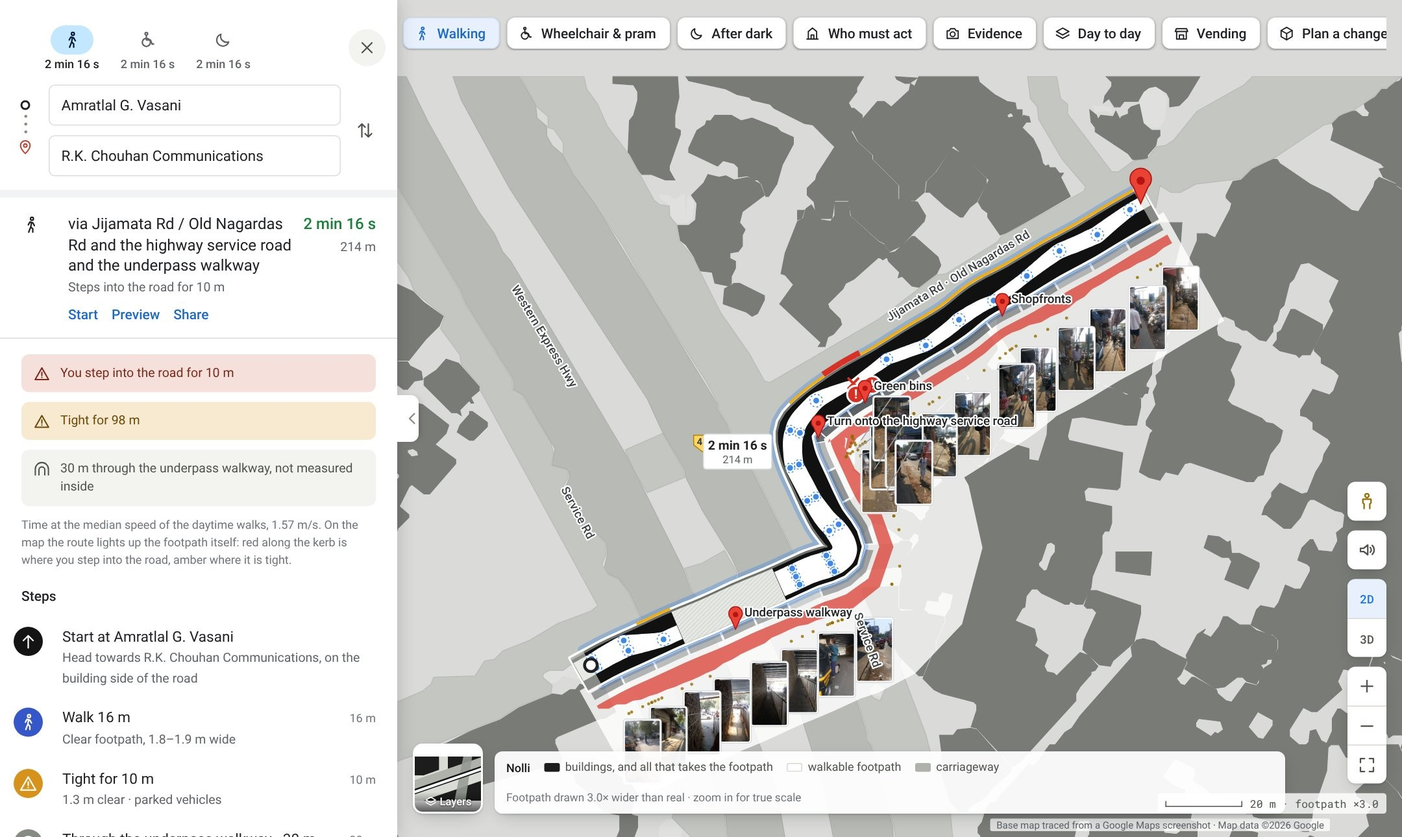
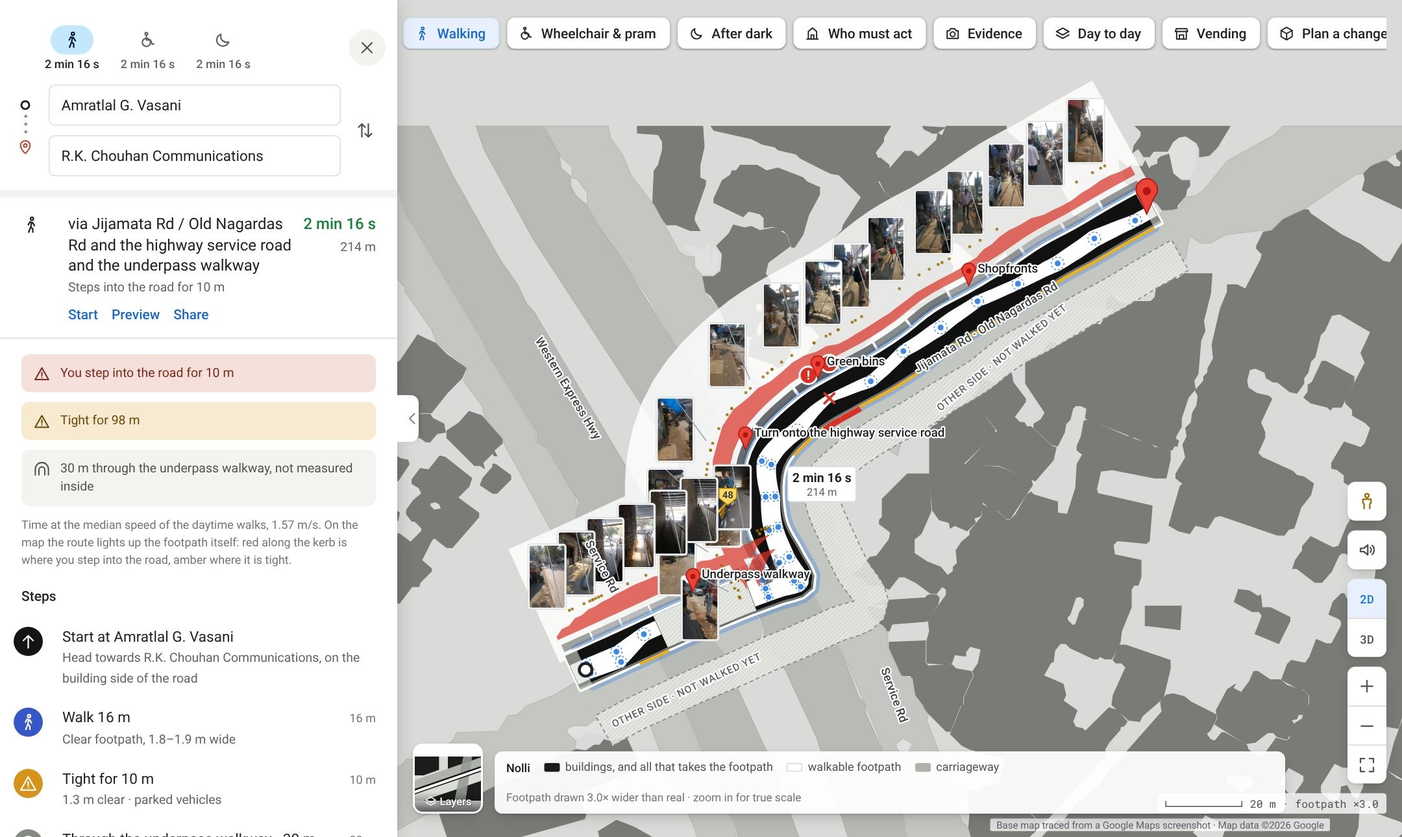
Pedestrian map: footpath on the walked (left-hand) side; other side marked not walked
The walked footpath now follows the north-west side of Jijamata Rd,
the west side of the service road and the north side of the road under
the highway, traced across the road using road widths measured on the
base map. The opposite footpath is drawn as a hatched band labelled
'Other side · not walked yet'. Report figures re-shot.

Claude-Session: https://claude.ai/code/session_015shB5T55dWDQ8sygg24Ctu

diff --git a/street-intelligence/pedmap/map.html b/street-intelligence/pedmap/map.html
@@ -540,23 +540,31 @@ function tx(s, x, y, at = {}, p) { const t = el('text', { x, y, ...at }, p); t.t
 const CTX = {"W":1228,"H":825,"lane":"M1092,768L1093,778L1095,782L1097,782L1101,776L1097,774L1097,768ZM1133,748L1130,752L1122,752L1119,767L1126,771L1126,780L1132,778L1132,783L1136,783L1136,778L1141,779L1143,777L1143,770L1151,766L1151,761L1148,758L1142,757L1138,748ZM716,603L709,618L710,632L715,637L720,638L726,635L729,629L729,614L722,603ZM463,539L458,544L457,553L462,559L468,559L473,554L474,547L468,539ZM1123,469L1111,477L1109,484L1117,488L1116,492L1121,497L1129,499L1130,494L1135,495L1136,486L1143,480L1143,477L1140,474L1135,474L1131,469ZM610,443L611,448L618,450L620,443L616,440ZM403,430L400,427L392,427L387,431L377,431L373,433L373,435L379,440L383,440L388,435L400,438L398,433L403,432ZM1041,316L1033,318L1028,324L1019,323L1012,328L1011,331L1020,335L1026,346L1029,346L1030,343L1031,346L1034,346L1039,341L1039,333L1036,329L1043,323ZM177,97L173,101L173,105L176,109L175,113L178,118L178,124L181,129L188,130L195,124L194,117L200,114L202,108L196,98L184,100ZM458,86L458,88L465,93L467,104L470,106L478,106L482,103L483,91L480,87L478,87L477,102L476,85L469,89L464,86ZM772,21L774,26L782,25L786,27L786,22ZM815,7L807,12L806,21L809,33L814,37L821,37L825,30L826,15L820,8Z","bgrey":"M84,819L85,824L92,824L92,819ZM36,819L36,824L51,824L51,819ZM1020,817L1020,824L1030,824L1029,816ZM200,824L229,824L219,819L210,812L207,813L207,815ZM279,795L276,794L240,808L239,813L242,822L244,824L268,824L286,818ZM1074,792L1075,812L1067,814L1066,824L1095,824L1096,816L1091,816L1087,813L1089,805L1088,794ZM136,789L136,796L139,797L145,803L148,804L152,801L153,797L151,794L144,789ZM1112,768L1103,769L1102,776L1104,778L1097,786L1098,804L1115,801L1115,789L1108,778L1112,772ZM889,763L888,767L891,773L889,778L898,798L902,799L909,797L913,803L920,801L916,780L907,781L904,775L899,774L898,771L900,765L898,761ZM874,824L874,819L867,798L855,800L852,802L848,795L842,794L840,786L824,789L820,788L819,783L821,781L833,779L835,777L844,776L854,772L859,772L859,760L844,762L822,769L819,764L795,768L791,770L791,774L787,778L784,778L782,774L759,779L762,800L767,801L769,813L776,813L780,819L781,824L786,824L786,822L790,819L792,819L795,824L797,824L799,821L799,816L809,812L813,814L814,818L833,814L835,816L836,824ZM996,758L997,772L999,777L998,780L999,782L1007,782L1010,779L1010,776L1008,774L1009,768L1007,762L1003,758ZM973,760L973,771L975,781L979,786L976,790L965,791L966,800L964,803L966,808L979,807L981,809L979,813L980,824L991,824L991,814L1038,810L1039,803L1051,803L1052,805L1065,804L1063,785L1060,781L1063,758L1055,764L1050,764L1050,768L1053,772L1052,778L1046,778L1044,776L1044,761L1041,758L1017,759L1015,762L1015,771L1018,773L1024,770L1030,777L1038,777L1040,780L1038,790L1028,791L1028,781L1019,781L1017,784L1018,791L1016,793L993,796L990,795L990,790L987,786L988,781L983,758L977,758ZM406,749L403,758L392,759L392,768L399,769L399,776L387,824L434,824L450,755L421,750ZM1069,754L1069,756L1071,757L1084,757L1087,754L1087,748L1077,748ZM1165,716L1165,729L1187,730L1187,717L1169,715ZM1112,708L1109,709L1107,720L1099,718L1092,719L1090,738L1099,740L1106,739L1112,743L1110,747L1112,751L1111,758L1113,760L1119,761L1122,759L1121,748L1117,744L1119,734L1120,710ZM1079,708L1072,710L1070,720L1071,723L1069,725L1065,725L1065,733L1067,739L1075,738L1076,734L1074,723L1081,723L1082,721L1082,710ZM1128,707L1125,735L1127,737L1132,738L1136,737L1138,740L1150,741L1152,712L1140,711L1137,707ZM914,703L908,704L898,710L902,722L918,714L917,707ZM973,698L971,700L971,703L973,708L974,720L963,722L968,749L977,747L985,749L990,748L993,742L999,743L1013,741L1010,714L1019,711L1018,703L1016,700L1005,702L1002,705L988,706L984,696ZM1153,679L1150,684L1149,692L1167,695L1170,691L1169,683ZM286,675L286,685L284,694L274,696L273,724L283,727L282,744L294,745L296,738L299,677L293,675ZM771,669L758,668L754,691L748,691L732,687L726,684L718,683L713,691L712,698L742,721L745,721L754,696L757,693L765,693L768,691L769,680L772,674ZM1105,664L1103,670L1103,679L1102,682L1099,683L1098,687L1098,700L1114,701L1116,686L1119,684L1121,666ZM206,661L204,663L195,709L195,716L215,717L219,715L250,719L252,704L243,702L244,691L240,689L242,669L230,669L222,667L219,661ZM226,687L227,695L223,702L222,710L219,714L216,711L219,688ZM1189,657L1187,660L1186,673L1203,674L1205,670L1206,660ZM1010,647L1013,668L1009,671L1005,671L1005,676L1009,688L1038,688L1040,692L1038,713L1028,714L1031,738L1039,739L1037,723L1037,714L1039,713L1043,719L1045,738L1043,740L1043,755L1050,751L1060,751L1058,739L1054,739L1052,737L1053,728L1051,715L1048,711L1047,699L1050,698L1059,700L1071,700L1072,696L1082,696L1084,690L1084,678L1086,677L1086,663L1054,663L1052,645ZM1054,668L1057,670L1056,689L1051,687L1053,681L1052,670ZM240,635L240,663L253,664L255,666L279,666L281,634ZM763,625L761,627L761,633L763,635L759,643L757,660L777,662L780,646L779,633L767,635L766,625ZM744,616L742,614L736,614L731,616L731,630L728,636L721,640L716,639L710,633L710,625L703,630L694,633L680,634L683,641L684,653L694,654L696,657L704,659L706,663L719,665L722,667L723,670L734,672L737,660L727,658L726,652L728,649L731,648L733,639L732,632L737,630L744,630ZM437,601L435,624L454,628L463,628L465,605ZM1172,587L1172,591L1169,595L1169,603L1193,607L1196,606L1193,591L1185,593L1182,591L1182,587ZM1082,563L1072,564L1073,578L1083,577ZM1150,562L1112,564L1113,578L1109,582L1108,596L1100,597L1099,595L1078,594L1079,612L1058,615L1056,619L1054,628L1056,644L1086,645L1086,630L1084,628L1083,614L1105,614L1107,618L1105,622L1106,626L1104,630L1104,635L1107,637L1144,642L1146,639L1157,639L1158,640L1155,650L1156,657L1154,667L1161,667L1162,657L1166,656L1167,654L1167,643L1159,640L1160,623L1165,605L1156,600L1148,601L1142,598L1143,584L1150,582ZM1158,519L1159,535L1178,535L1178,521L1171,518ZM132,507L127,509L95,532L96,537L105,549L119,541L121,538L143,523L143,519ZM396,507L397,512L409,522L410,526L418,534L429,536L429,547L427,552L439,553L442,545L442,537L438,536L437,534L443,516L422,504L409,499ZM11,495L3,502L0,502L0,573L7,579L10,584L13,585L13,587L18,593L21,594L40,580L40,570L37,565L41,561L45,563L50,562L59,570L65,568L67,561L61,553L71,543L71,541L47,513L45,513L37,519L29,527L31,533L28,536L25,536L20,530L20,526L23,525L28,519L26,515L26,509L13,495ZM223,453L222,457L219,460L219,463L228,469L234,468L235,459ZM416,439L404,442L400,441L397,445L393,445L387,449L380,448L356,458L342,467L323,474L303,484L297,485L293,489L284,491L282,495L287,510L291,517L292,523L300,522L386,498L387,495L382,484L382,481L384,479L415,466L418,466L426,461ZM1095,426L1093,426L1077,450L1078,454L1085,456L1087,459L1093,460L1108,435L1105,431ZM79,390L66,404L66,408L68,408L84,424L81,431L92,441L103,448L120,428L121,424L99,405L97,405L85,393ZM173,389L169,389L154,408L160,414L163,414L165,411L167,411L178,396L178,394ZM1101,408L1085,398L1082,399L1082,392L1075,389L1071,384L1062,384L1060,391L1055,398L1051,398L1049,396L1045,397L1043,402L1045,407L1039,414L1030,434L1034,439L1046,445L1057,422L1057,417L1059,413L1064,413L1068,415L1075,408L1077,413L1094,423L1101,412ZM789,345L789,359L814,362L815,345ZM856,333L853,342L866,349L871,349L873,352L868,365L885,372L893,356L893,353L879,346L873,346L872,337L870,338L864,334ZM1217,327L1214,327L1209,322L1202,321L1199,331L1196,335L1182,331L1176,348L1175,356L1183,360L1187,360L1192,349L1199,350L1206,354L1210,354L1213,342L1217,334ZM0,249L0,298L13,298L16,252L15,250ZM320,243L320,245L313,253L311,258L320,264L323,264L333,254L333,251L322,243ZM748,211L745,212L743,223L740,230L740,233L744,236L740,243L739,260L733,279L726,278L726,270L709,265L707,263L704,265L696,279L692,283L689,283L684,278L672,272L672,280L663,291L663,294L657,299L653,305L654,314L651,317L651,320L647,323L642,317L632,313L623,307L623,297L628,293L635,277L634,250L618,250L600,268L600,281L598,283L598,286L606,292L605,297L596,309L591,310L585,318L578,322L586,326L590,330L597,330L605,333L612,324L616,324L624,328L635,336L639,336L643,331L646,333L646,337L633,355L634,363L632,370L632,386L647,387L650,386L652,380L660,381L660,378L663,374L671,376L669,386L665,392L666,395L659,411L659,416L657,417L649,437L657,445L663,448L686,454L688,456L688,460L684,472L688,473L714,501L719,498L760,453L760,448L763,443L771,434L771,432L774,431L776,428L769,420L763,418L746,435L744,433L739,432L737,428L740,420L730,413L732,409L730,401L716,395L721,386L723,385L724,377L728,372L732,372L735,375L752,383L755,383L756,381L760,383L765,383L771,371L772,363L779,346L779,333L781,330L784,330L786,324L786,312L767,308L766,301L769,298L790,300L792,298L794,273L755,264L754,261L757,248L765,247L796,253L804,253L807,240L807,234L800,231L796,231L792,228L781,225L779,223L776,223ZM742,338L745,340L745,345L742,349L739,358L737,359L733,355L733,353L735,351L739,339ZM247,210L244,210L234,224L228,222L223,218L220,218L216,228L221,231L227,237L228,240L222,249L217,254L214,254L207,266L204,266L199,260L195,259L183,274L183,277L170,289L170,291L164,299L164,302L167,307L159,316L158,322L147,340L149,344L173,363L179,359L188,347L192,349L196,353L184,369L184,371L199,381L205,379L210,383L215,382L219,375L232,360L229,355L221,349L218,351L212,361L208,361L205,358L212,344L213,339L218,339L228,330L246,342L253,343L262,331L267,331L268,328L276,320L276,318L269,312L276,298L278,296L287,303L291,303L310,281L310,278L295,267L303,259L305,253L286,238L282,237L274,247L268,246L262,254L262,257L267,260L269,264L263,269L258,276L258,279L262,284L264,284L269,289L269,291L261,299L253,293L250,293L249,296L236,310L232,309L224,302L222,302L211,317L208,316L200,308L197,308L189,318L190,321L198,328L196,333L192,337L184,333L174,324L175,320L177,319L177,316L183,311L183,309L189,303L189,300L186,297L186,293L190,283L200,282L222,299L228,296L231,286L239,286L241,289L246,290L252,283L253,278L229,260L234,252L237,250L242,253L252,255L260,243L259,240L254,239L245,234L253,220L256,218ZM275,271L279,270L282,272L283,275L278,276L275,273ZM259,218L259,220L263,224L268,224L272,227L275,227L280,221L286,220L285,214L277,210L275,207L268,207ZM670,181L670,189L665,194L665,197L683,219L660,243L684,244L710,255L723,240L725,231L722,230L707,216L704,216L702,213L699,213L695,209L703,198L703,196L694,184L693,178L688,179L681,185ZM505,154L504,165L521,171L525,174L529,172L534,162L534,159L516,150L512,150ZM26,142L0,147L0,201L4,205L16,204L16,190L39,184ZM147,128L147,137L149,138L150,144L148,159L148,180L150,182L224,187L226,127L202,128L196,126L193,130L189,132L184,132L180,129L179,126L173,129L167,129L165,127L164,121L161,118L157,122L158,124L156,127ZM563,97L558,97L558,104L561,103ZM670,52L659,69L652,76L651,84L654,84L665,94L676,102L678,102L683,95L688,91L695,78L695,74L677,56ZM492,32L491,35L485,39L479,52L479,55L500,65L504,61L512,63L515,66L515,73L522,72L526,75L529,75L532,78L535,87L537,87L543,78L547,64L555,49L555,44L546,40L543,37L525,30L517,32L510,28L498,28L495,32ZM1227,0L1175,0L1173,10L1160,10L1156,8L1148,8L1145,5L1145,0L1122,0L1119,5L1111,6L1108,17L1105,21L1101,21L1089,16L1087,11L1081,11L1075,20L1067,17L1062,25L1055,24L1040,46L1030,66L1030,71L1021,84L1018,86L1014,86L1011,89L1008,89L993,80L992,78L980,73L977,76L976,80L965,98L960,97L944,85L930,78L908,63L906,60L903,60L888,67L880,75L874,76L869,86L869,88L873,92L872,96L861,117L855,114L848,114L848,119L843,131L837,157L838,167L834,174L834,177L831,180L831,183L825,190L827,194L826,201L823,206L822,213L818,217L819,223L816,229L818,238L811,250L811,253L816,257L814,259L806,287L813,291L821,293L825,287L834,289L839,281L843,280L884,294L889,294L892,290L896,289L901,274L908,265L910,257L903,252L898,251L895,248L873,238L870,235L875,224L875,220L872,213L880,196L878,194L869,192L863,188L862,183L864,175L868,174L875,177L876,181L881,184L884,184L893,191L898,192L903,185L903,181L906,177L908,169L911,166L915,150L918,147L923,136L929,135L951,148L944,163L947,170L933,197L933,199L938,204L938,208L947,213L951,217L947,228L944,231L932,227L923,242L923,246L927,247L932,251L932,256L943,263L945,266L940,274L939,279L934,287L928,302L924,303L908,295L902,302L902,305L897,312L895,318L898,318L911,328L916,328L923,320L928,309L930,307L933,307L948,315L953,316L955,318L954,327L949,331L950,337L946,345L936,344L932,336L930,336L924,342L921,351L928,354L930,356L930,359L923,372L919,372L912,369L907,382L904,386L894,384L891,387L887,398L900,405L903,405L907,409L907,415L903,421L902,426L897,429L893,437L893,440L891,442L883,440L873,454L869,453L863,448L862,445L846,436L844,436L839,442L836,441L833,437L836,434L840,426L840,423L822,414L817,410L809,408L804,409L800,414L801,421L763,464L757,473L752,476L745,485L741,485L730,500L726,499L705,522L702,527L698,527L695,531L692,541L689,545L689,549L691,551L689,558L690,561L688,566L688,575L713,582L716,584L717,587L753,595L758,594L759,578L761,571L769,573L838,579L846,581L849,583L848,595L845,602L837,604L834,601L821,601L815,599L811,602L810,608L813,613L811,617L811,623L818,624L824,632L838,632L845,640L873,649L877,649L885,654L894,651L894,648L902,643L902,630L907,616L914,611L924,600L928,598L945,620L949,634L943,634L924,642L928,655L935,656L933,660L907,674L901,675L889,680L887,676L884,674L866,670L860,664L850,664L847,677L847,687L861,689L864,692L865,710L886,709L889,707L890,699L898,698L913,693L922,694L928,707L940,704L937,689L948,686L948,679L945,675L943,664L939,655L950,650L953,647L960,647L966,645L971,641L966,628L966,624L973,617L978,609L984,607L993,600L993,595L987,582L964,554L962,554L958,558L958,560L953,564L941,555L930,551L927,553L926,560L924,562L908,558L907,563L904,567L904,573L899,578L895,578L888,574L892,549L884,547L880,544L876,544L874,546L869,559L865,564L850,564L842,562L842,557L848,553L848,541L843,540L845,527L839,523L839,518L830,514L823,508L832,495L846,502L847,505L845,511L852,515L858,521L884,535L888,535L889,537L925,548L929,548L929,542L931,540L932,533L942,504L943,487L945,485L951,485L956,494L973,500L978,505L980,505L994,519L1000,528L1006,526L1016,519L1019,519L1026,531L1032,537L1043,561L1047,561L1062,554L1074,553L1076,550L1084,550L1085,552L1091,553L1092,555L1088,561L1090,579L1105,579L1105,564L1102,556L1104,552L1112,552L1112,549L1114,547L1125,547L1127,555L1144,554L1144,534L1141,532L1133,534L1125,533L1125,501L1117,494L1110,498L1101,497L1099,495L1090,496L1083,513L1077,520L1074,521L1070,516L1053,508L1046,508L1043,500L1039,495L1036,496L1032,501L1028,501L1021,497L1010,505L1007,505L999,496L994,485L981,485L980,483L982,476L979,473L970,469L962,463L956,462L952,459L950,459L946,466L946,475L942,484L938,482L934,474L930,475L929,483L927,485L922,485L915,479L915,474L925,458L931,461L935,461L953,445L950,439L954,430L971,433L975,419L978,415L1005,427L1016,404L1016,401L1018,399L1022,399L1027,391L1029,384L1006,371L1006,365L1010,356L1013,342L1017,339L1018,336L1012,333L1003,332L1002,326L1008,323L1006,315L1011,306L1015,294L1022,294L1027,287L1040,292L1045,299L1056,302L1061,305L1075,308L1077,310L1075,315L1061,312L1058,320L1059,325L1069,327L1072,329L1072,337L1062,337L1059,348L1056,351L1047,350L1039,346L1033,349L1026,348L1020,363L1021,367L1049,375L1055,359L1059,359L1062,362L1069,363L1072,365L1082,365L1084,363L1084,358L1089,343L1107,346L1117,350L1127,351L1128,356L1125,366L1125,380L1127,380L1129,384L1129,392L1132,396L1131,402L1135,405L1138,426L1142,431L1145,431L1157,440L1160,440L1164,444L1169,445L1197,462L1203,460L1208,447L1211,444L1211,438L1200,431L1180,421L1177,421L1170,416L1169,413L1175,406L1177,401L1175,398L1162,392L1159,389L1158,384L1168,372L1168,368L1149,357L1146,352L1151,345L1152,339L1157,328L1147,323L1145,321L1145,318L1149,310L1150,298L1152,295L1151,282L1157,275L1157,267L1155,263L1159,260L1176,260L1182,262L1192,260L1195,255L1194,249L1198,237L1199,226L1201,223L1203,210L1210,209L1227,202L1227,172L1224,170L1216,168L1213,172L1212,177L1209,180L1189,171L1186,171L1184,169L1172,166L1168,163L1164,163L1161,159L1174,152L1180,156L1188,158L1193,161L1197,161L1212,137L1212,133L1187,123L1170,114L1164,113L1144,164L1145,168L1151,169L1152,172L1140,195L1136,195L1117,187L1114,187L1112,185L1116,171L1114,167L1107,163L1102,156L1103,152L1097,146L1077,132L1075,132L1071,137L1064,135L1058,141L1055,141L1047,137L1042,142L1040,146L1041,154L1055,162L1060,162L1065,169L1080,179L1087,189L1092,193L1104,198L1105,201L1103,206L1110,212L1113,212L1122,220L1118,224L1117,228L1104,249L1104,257L1102,262L1097,266L1082,263L1073,256L1052,246L1045,239L1023,224L1014,224L1001,218L1000,211L996,207L994,186L996,184L996,181L1001,176L1004,169L1007,166L1007,164L1012,164L1016,160L1017,157L1027,146L1043,120L1048,110L1048,107L1042,104L1040,100L1047,89L1058,65L1061,62L1079,71L1085,72L1085,77L1081,84L1082,86L1077,97L1077,102L1090,109L1093,109L1105,117L1107,117L1110,112L1115,112L1132,117L1143,92L1147,88L1167,97L1170,102L1181,104L1186,108L1190,108L1202,113L1210,112L1214,114L1223,115L1223,108L1225,98L1227,95L1227,83L1223,82L1220,79L1220,77L1227,64L1227,26L1215,14L1218,11L1218,5L1227,4ZM823,543L825,541L827,543L832,544L836,548L833,550L824,549ZM770,540L770,550L768,553L764,554L761,571L757,572L755,570L761,542L763,540ZM1089,516L1110,516L1111,529L1103,531L1092,530L1090,527ZM847,469L849,466L865,468L867,474L863,477L861,476L858,479L847,472ZM892,461L903,467L903,471L896,481L892,480L885,472ZM1080,311L1094,310L1118,312L1119,318L1117,321L1115,332L1109,333L1094,330L1091,339L1088,342L1082,342L1079,339L1081,333ZM1173,16L1185,17L1189,19L1189,30L1186,40L1182,40L1181,38L1169,35L1171,20ZM629,0L630,2L636,5L639,5L645,1ZM477,0L479,3L506,9L514,13L523,15L525,17L538,20L541,23L563,34L569,35L585,51L572,71L571,75L565,81L565,86L570,91L571,97L575,103L583,103L585,90L595,90L597,101L617,119L621,121L625,127L633,123L650,105L651,101L645,91L631,89L631,79L612,60L612,57L601,47L597,40L605,30L605,28L599,23L597,23L595,19L601,11L601,8L606,0ZM424,0L424,5L439,6L442,11L442,17L439,28L436,32L435,55L439,63L445,71L452,71L462,75L469,75L465,68L465,65L473,42L473,39L469,37L469,28L472,15L471,0Z","bbeige":"M52,819L52,824L84,824L83,819ZM691,824L734,824L734,813L702,813ZM963,802L953,802L930,806L932,824L939,824L942,820L945,820L948,824L949,819L964,817ZM14,799L14,804L23,824L35,824L35,819L25,818L25,798ZM956,757L956,766L960,787L964,790L970,789L966,759L963,756ZM142,749L143,751L141,755L140,766L163,784L198,789L202,788L204,770L208,769L208,764L203,756L197,754L194,755L175,752L171,750L162,750L147,747ZM1165,730L1164,744L1162,750L1163,754L1156,758L1151,769L1151,772L1154,776L1162,776L1165,780L1163,782L1147,782L1144,779L1137,785L1133,785L1129,782L1127,782L1126,784L1135,820L1141,820L1145,824L1193,824L1192,783L1186,783L1183,780L1185,778L1187,765L1186,757L1189,755L1191,732ZM943,727L925,729L928,759L947,757ZM1182,687L1182,695L1202,696L1209,698L1209,695L1206,694L1205,688ZM863,692L861,690L854,690L846,687L846,677L849,668L849,663L834,660L833,656L830,659L829,674L827,680L822,680L819,678L818,664L809,664L806,662L806,660L804,660L803,663L802,660L798,662L778,661L777,671L775,673L776,678L773,696L766,697L763,694L757,694L755,696L752,704L754,707L750,708L747,720L745,722L746,727L762,740L787,744L807,741L819,736L821,733L828,732L828,729L831,727L863,717ZM968,646L964,646L957,649L953,648L950,651L941,655L946,675L949,679L949,686L945,688L949,706L943,709L944,715L948,718L949,722L954,722L961,719L961,713L959,708L959,702L961,700L971,699L975,696L984,695L989,691L1007,686L1004,673L998,667L987,670L984,666L983,660L975,659L970,652ZM132,647L97,642L95,658L92,664L80,662L77,660L76,657L73,657L70,654L65,655L57,653L54,673L68,673L70,676L65,702L59,703L47,699L47,693L49,690L51,690L51,687L29,685L29,693L25,707L13,706L9,704L6,706L7,714L4,728L0,731L0,735L4,737L25,740L26,708L124,708L125,693L128,686L130,669L134,667L130,664L133,663L131,661ZM1165,607L1166,612L1174,613L1175,617L1179,618L1179,622L1176,624L1194,624L1194,608L1170,604ZM1151,561L1151,581L1154,583L1172,586L1190,586L1192,588L1196,587L1196,561ZM438,554L437,561L435,564L435,576L431,580L430,598L448,602L468,604L472,582L468,582L465,579L467,577L468,561L463,561L459,556L456,556L454,558L445,558ZM262,537L260,535L258,536L258,544L255,546L251,543L239,526L231,530L224,531L223,533L219,531L221,534L210,541L208,545L186,562L179,563L166,572L156,584L148,588L148,592L157,608L156,614L161,621L165,621L168,619L170,620L172,616L179,612L184,616L191,627L194,627L200,623L209,625L219,619L217,612L213,609L210,604L210,600L203,592L200,591L199,587L207,580L209,580L211,577L215,576L221,571L224,571L228,574L230,579L232,580L243,597L228,608L228,612L241,628L245,627L249,623L257,619L262,618L284,601L286,601L286,597L282,591L282,582L271,560L271,557L264,544ZM977,506L963,519L964,522L976,530L971,536L973,544L964,553L983,577L987,580L992,576L1018,563L1019,561L993,519L980,506ZM1223,502L1205,499L1202,513L1197,523L1185,520L1179,522L1180,532L1176,540L1178,540L1179,543L1182,544L1193,544L1194,538L1196,538L1197,541L1201,539L1213,542L1216,529L1218,527L1219,519L1221,516ZM1172,480L1168,499L1165,500L1165,502L1168,505L1187,507L1188,502L1197,502L1200,492L1199,486L1192,486L1186,483ZM684,473L674,474L671,478L661,478L663,494L662,506L669,527L676,534L681,534L683,530L695,523L698,518L713,504L713,501L706,494L706,492L702,490L688,474ZM978,416L968,443L963,463L979,472L983,477L986,477L987,480L990,478L999,478L1001,482L997,484L996,487L1000,496L1007,504L1013,502L1018,494L1028,500L1032,500L1040,492L1039,483L1037,483L1036,480L1040,480L1041,477L1044,477L1046,482L1047,477L1051,477L1058,469L1061,470L1059,466L1063,461L1064,457L1033,439L1028,440L1024,437L1024,435L1021,436L1016,434L1016,431L1010,431L1006,428L990,422L987,419ZM1005,487L1006,478L1009,476L1019,477L1020,481L1025,483L1027,477L1030,480L1030,482L1021,491L1017,491L1014,488L1009,489ZM983,425L984,424L985,426L984,427ZM848,405L840,420L841,426L839,430L861,444L868,443L877,436L881,436L884,439L891,441L896,430L894,427L898,426L899,423L902,423L906,415L906,409L903,406L891,402L886,398L879,398L870,392L867,392L864,399L858,407L852,404L854,401ZM1205,376L1190,390L1185,398L1176,405L1170,414L1177,420L1180,420L1200,430L1212,438L1212,444L1209,447L1204,460L1201,462L1201,464L1203,467L1211,472L1222,475L1222,471L1220,469L1227,455L1227,439L1221,436L1218,433L1218,431L1223,430L1224,433L1226,433L1227,429L1227,392L1222,392L1209,377ZM770,373L766,384L768,386L772,386L775,389L766,409L765,416L777,427L785,428L787,424L802,411L807,390L807,384L775,373ZM605,371L605,375L614,395L620,395L622,397L624,409L630,417L630,419L646,435L649,435L656,417L658,416L658,411L665,395L664,392L653,390L650,387L633,388L631,386L631,370ZM1059,367L1058,376L1067,379L1072,384L1082,384L1084,380L1088,378L1086,376L1086,372L1080,371L1076,366L1062,363ZM1227,342L1224,347L1219,363L1219,368L1221,370L1220,374L1222,372L1224,376L1227,378ZM641,339L639,337L633,337L631,339L600,341L595,344L602,344L602,348L591,345L589,347L596,356L601,359L603,363L605,363L607,358L632,356L640,344ZM127,330L93,371L93,374L97,377L97,383L109,392L111,392L117,385L120,385L137,398L142,400L145,404L153,408L175,380L179,371L174,364L157,352L146,341L138,338ZM1219,296L1214,318L1211,319L1211,323L1214,326L1222,326L1227,328L1227,298ZM1166,262L1164,269L1162,271L1158,270L1158,275L1152,282L1153,295L1172,301L1176,301L1179,290L1177,290L1174,287L1175,285L1165,285L1163,283L1165,281L1178,282L1179,280L1176,278L1176,273L1180,272L1184,265L1185,280L1189,280L1189,270L1184,265L1184,263L1176,261ZM1203,237L1202,253L1205,256L1214,259L1227,259L1227,240ZM217,229L214,229L205,241L205,244L214,251L217,249L220,250L227,240L226,237ZM303,205L296,213L287,219L287,224L307,244L311,244L314,246L313,242L320,235L321,237L323,237L321,233L327,228L327,225L312,208ZM664,196L654,202L650,202L650,206L643,212L639,212L640,214L636,216L634,219L634,249L636,276L641,283L648,285L649,289L652,287L661,291L667,285L666,282L671,280L672,270L678,275L684,277L689,282L692,282L708,258L707,254L684,245L658,243L681,221L681,218ZM1061,190L1044,215L1038,221L1034,230L1050,242L1052,245L1073,255L1082,262L1101,262L1103,257L1103,249L1120,219L1113,213L1110,213L1105,209L1102,210L1101,206L1096,201L1095,195L1088,190L1084,191L1078,197L1073,197L1070,193ZM916,169L909,184L906,186L906,191L903,195L908,199L920,202L922,204L924,202L930,202L939,184L939,180L919,169ZM1220,153L1219,156L1216,156L1218,158L1217,167L1227,171L1227,157L1222,156ZM301,174L287,164L279,156L266,150L254,168L247,173L242,185L234,193L232,198L221,213L221,216L228,221L234,223L244,209L247,209L257,217L259,217L268,206L276,206L288,191L298,181ZM1227,114L1223,116L1221,122L1217,124L1218,132L1227,134ZM837,106L817,106L812,110L808,109L807,112L797,116L796,123L793,126L780,126L775,128L769,126L765,121L761,125L761,132L765,130L766,134L760,137L757,143L754,142L748,144L746,147L737,152L732,153L727,157L720,155L715,163L703,168L703,185L717,206L714,211L709,214L709,217L722,229L726,230L731,220L732,214L735,211L737,203L739,201L743,201L747,203L746,210L805,233L808,233L810,230L812,230L813,226L811,225L811,223L815,216L815,210L820,195L825,189L824,183L827,178L829,154L832,147L831,140L836,120ZM660,131L643,116L641,116L629,127L625,128L621,122L617,120L596,101L595,91L585,91L585,101L582,105L575,104L568,93L564,96L562,103L558,105L549,128L546,143L549,144L555,151L545,165L575,193L573,196L578,196L580,189L584,187L590,180L589,176L581,168L580,165L591,154L593,150L599,147L617,131L620,133L623,131L624,134L632,142L631,146L634,145L641,152L646,153L659,143L662,137ZM493,71L490,77L481,86L485,92L484,104L479,108L471,108L473,119L477,122L483,131L487,141L496,142L498,150L508,152L510,150L510,145L513,139L513,134L509,132L509,128L515,127L518,123L518,115L520,111L516,106L518,98L534,86L531,78L522,73L512,75L506,72L501,73ZM1061,63L1041,100L1042,103L1049,107L1049,110L1042,122L1043,125L1039,127L1032,139L1033,143L1039,146L1047,136L1055,140L1058,140L1064,134L1071,136L1075,131L1077,131L1097,145L1104,152L1109,153L1117,160L1122,160L1126,158L1143,166L1148,150L1163,115L1164,109L1168,102L1168,99L1155,92L1146,90L1132,118L1115,113L1110,113L1109,116L1105,118L1093,110L1090,110L1076,102L1075,100L1080,89L1080,84L1077,83L1078,71ZM770,24L771,33L774,37L774,40L798,56L801,60L805,61L812,59L812,57L818,50L819,45L821,43L821,39L815,39L809,34L806,20L800,22L798,24L798,27L793,29L792,31L789,25L787,29L778,28L776,31L775,28ZM171,34L169,34L167,30L162,27L160,19L155,13L147,8L140,8L119,17L116,17L113,14L109,16L104,14L104,18L71,32L65,38L58,53L58,64L67,82L75,82L81,89L127,69L140,67L164,57L164,49L166,47L173,46L173,44L170,43L169,36ZM1146,0L1146,5L1148,7L1156,7L1160,9L1173,9L1174,0ZM1089,15L1101,20L1105,20L1110,6L1112,4L1119,4L1121,0L1088,0L1088,4L1091,5L1091,8L1088,11ZM1036,0L997,0L995,3L989,5L986,9L982,9L977,15L969,19L970,23L973,26L972,29L968,29L963,25L959,25L951,29L946,34L947,38L945,46L981,63L984,66L980,67L983,73L992,77L993,79L1008,88L1011,88L1014,85L1021,83L1029,71L1029,66L1039,46L1056,22L1058,16L1052,10L1037,3ZM780,19L784,16L788,22L792,22L795,18L805,18L809,11L813,8L818,7L826,12L828,16L828,22L835,21L841,15L850,0L782,0L786,4L786,7L781,14ZM598,39L602,47L613,57L613,60L632,79L632,89L643,90L650,84L651,76L658,69L671,50L697,75L689,91L692,96L696,99L696,102L705,115L711,113L756,87L749,73L751,70L748,70L745,66L741,66L740,64L738,65L736,63L734,55L729,45L721,37L724,33L727,33L726,29L722,28L721,30L721,24L717,24L716,19L710,18L701,13L690,4L689,0L646,0L643,7L640,5L639,10L626,22L621,18L616,18ZM710,28L713,26L715,29L711,30Z","road":"M136,797L136,818L129,820L135,824L174,824ZM25,769L23,767L17,767L11,773L5,769L0,769L0,783L9,781L17,788L24,788ZM221,694L219,695L218,712L221,710L224,700ZM131,669L125,708L136,709L136,748L147,746L194,754L197,753L204,756L215,749L219,742L221,727L219,716L213,719L205,718L204,734L200,739L139,732L138,723L145,675L142,668L135,667ZM1227,659L1220,667L1213,716L1210,722L1207,767L1204,777L1206,786L1203,824L1218,824L1220,818L1220,794L1223,791L1223,784L1227,780L1227,771L1222,766L1225,739L1224,732L1226,729L1224,722L1227,719ZM1227,633L1224,635L1224,641L1227,644ZM1104,366L1100,375L1106,410L1109,413L1110,420L1121,435L1134,447L1160,460L1162,463L1169,465L1172,469L1183,475L1189,476L1196,484L1208,487L1227,500L1227,482L1217,474L1211,473L1203,468L1200,463L1157,441L1132,424L1125,414L1120,400L1116,371L1110,366ZM505,344L489,353L476,357L482,374L494,388L508,387L516,378L512,370L514,360ZM460,259L433,271L438,284L449,302L476,291L475,285ZM357,0L369,22L377,29L377,37L381,38L388,48L388,57L396,71L431,122L455,164L491,220L501,238L501,242L508,253L513,267L520,274L558,350L566,358L565,368L573,381L597,438L609,476L609,482L612,485L617,500L617,506L628,544L634,591L641,624L642,650L646,677L648,731L650,736L649,824L690,824L688,689L682,641L679,635L668,526L661,503L657,500L651,477L632,427L633,423L623,409L621,397L613,395L604,375L604,365L602,361L597,358L588,347L590,331L575,322L572,308L564,298L567,290L566,283L554,275L556,270L554,254L563,247L570,237L581,239L599,233L605,233L611,237L619,207L634,207L642,192L659,190L669,176L681,176L693,164L701,169L716,146L731,145L740,131L756,131L765,120L765,117L778,117L782,115L790,102L802,103L818,95L821,79L829,84L836,84L847,78L880,74L888,66L904,59L940,35L945,34L951,28L962,24L977,14L982,8L986,8L996,0L888,0L882,6L848,25L831,46L825,50L818,51L812,60L802,61L791,69L786,69L754,27L754,20L749,16L746,0L725,0L727,16L732,22L733,31L750,60L767,80L766,83L706,116L703,120L666,143L659,144L617,176L538,222L534,221L523,201L502,171L482,131L472,119L470,107L465,101L465,94L458,93L454,90L436,57L420,36L413,20L405,9L403,0ZM615,440L622,444L618,453L613,451L610,447L610,444ZM195,0L197,8L219,54L251,109L257,116L257,119L276,146L280,156L302,174L299,183L313,202L314,209L328,225L328,228L413,384L408,388L384,397L364,409L344,417L338,423L331,424L324,435L294,436L292,441L286,446L265,455L258,455L255,459L229,470L224,475L202,486L172,505L151,521L141,525L106,550L103,555L88,564L18,630L12,643L7,647L0,647L0,708L5,707L9,700L27,683L36,670L56,652L56,643L62,643L67,640L73,632L110,599L201,536L207,530L270,496L293,488L297,484L342,466L356,457L379,448L380,442L373,436L374,433L378,431L388,431L393,427L401,427L405,432L409,432L421,419L433,430L443,457L464,502L471,523L467,538L484,555L492,587L500,667L504,747L498,824L535,824L535,768L532,741L532,717L519,604L506,550L505,538L501,524L496,517L493,501L485,486L485,481L481,476L458,421L445,408L445,396L435,374L428,365L420,361L416,354L419,347L418,338L414,334L404,331L393,310L392,304L387,299L392,290L390,285L379,282L381,274L379,266L358,231L351,227L351,220L316,164L312,154L257,63L252,48L242,35L226,0ZM0,46L75,19L92,11L105,8L116,3L118,0L18,0L13,4L0,7Z","hwy":"M308,0L314,17L349,81L449,234L460,258L476,285L477,291L489,315L510,349L515,360L515,374L528,386L553,440L577,516L597,620L607,744L606,803L626,824L648,824L649,736L647,731L645,677L641,650L640,624L635,603L630,564L628,561L627,544L616,506L616,500L611,485L608,482L608,476L598,444L588,422L588,416L583,410L572,381L564,368L565,358L557,350L519,274L512,267L507,253L500,242L500,238L410,91L395,71L387,56L380,50L376,43L376,36L369,30L368,21L356,0ZM227,0L243,35L253,48L258,63L313,154L317,164L352,220L352,227L359,231L382,270L380,282L391,285L393,290L389,300L393,304L394,310L405,331L414,333L419,338L420,347L418,356L421,361L428,364L436,374L446,396L446,408L459,421L482,476L486,481L486,486L494,501L498,519L502,524L506,538L507,550L520,604L533,717L533,741L536,768L536,824L578,824L578,770L575,716L561,600L552,559L549,553L543,519L519,454L496,404L492,390L493,387L481,374L475,357L435,277L350,134L344,127L338,114L326,97L290,33L274,0Z"};
 const SC = 3.6; // svg units per screenshot px: 0.36 m per px, 10 units per m
 const RPX = [[812, 89], [789, 102], [764, 117], [740, 130], [715, 145], [689, 159], [667, 176], [642, 191], [618, 206], [593, 220], [569, 237], [553, 254], [554, 274], [564, 298], [575, 321], [588, 344], [564, 355], [540, 366], [516, 376], [492, 387], [468, 397], [444, 408], [420, 419], [398, 431]];
-const TURN_PX = [553, 254], AX = 2; // the walked line sits 2 m from the building edge
-const FR = (() => { const p = RPX.map(([x, y]) => [x * SC, y * SC]), d = [];
+const TURN_PX = [553, 254], AX = 2;
+const SIDE = -1; // road lies on the right of the walked line, buildings on the left // the walked line sits 2 m from the building edge
+const buildFR = (PTS, TURN) => { const p = PTS.map(([x, y]) => [x * SC, y * SC]), d = [];
   for (let i = 0; i < p.length - 1; i++) { const p0 = p[i - 1] || p[i], p1 = p[i], p2 = p[i + 1], p3 = p[i + 2] || p2;
     for (let k = 0; k < 12; k++) { const t = k / 12, t2 = t * t, t3 = t2 * t; d.push([0, 1].map(j => .5 * (2 * p1[j] + (-p0[j] + p2[j]) * t + (2 * p0[j] - 5 * p1[j] + 4 * p2[j] - p3[j]) * t2 + (-p0[j] + 3 * p1[j] - 3 * p2[j] + p3[j]) * t3))); } }
   d.push(p[p.length - 1]); const cum = [0]; for (let i = 1; i < d.length; i++) cum.push(cum[i - 1] + Math.hypot(d[i][0] - d[i - 1][0], d[i][1] - d[i - 1][1]));
-  let ci = 0, best = 1e9; d.forEach((q, i) => { const e = Math.hypot(q[0] - TURN_PX[0] * SC, q[1] - TURN_PX[1] * SC); if (e < best) { best = e; ci = i; } });
+  let ci = 0, best = 1e9; d.forEach((q, i) => { const e = Math.hypot(q[0] - TURN[0] * SC, q[1] - TURN[1] * SC); if (e < best) { best = e; ci = i; } });
   const Lc = cum[ci], Lt = cum[cum.length - 1], lenOf = m => m <= 104 ? m / 104 * Lc : Lc + (m - 104) / 116 * (Lt - Lc);
   const at = l => { l = clamp(l, 0, Lt); let j = 1; while (j < cum.length - 1 && cum[j] < l) j++; const f = (l - cum[j - 1]) / Math.max(1e-6, cum[j] - cum[j - 1]); return [d[j - 1][0] + (d[j][0] - d[j - 1][0]) * f, d[j - 1][1] + (d[j][1] - d[j - 1][1]) * f]; };
   const out = []; for (let j = 0; j <= 440; j++) { const m = j / 2, q = at(lenOf(m)), a = at(lenOf(Math.max(0, m - 4))), b = at(lenOf(Math.min(L, m + 4))), tl = Math.hypot(b[0] - a[0], b[1] - a[1]) || 1, tx = (b[0] - a[0]) / tl, ty = (b[1] - a[1]) / tl; out.push([q[0], q[1], tx, ty]); }
-  return out; })();
+  return out; };
+// walked line: the left-hand side of the road (north-west of Jijamata Rd, west of the service road, north of the road under the highway),
+// traced across the road from the route line using road widths measured on the base map
+const RPXW = [[795.9, 60.5], [772.4, 73.5], [747.5, 88.1], [723.5, 101.1], [699.3, 117.4], [672.6, 133.6], [647.4, 147.3], [625.7, 164.3], [602.3, 179.5], [576.3, 193.6], [547.4, 211.6], [521.5, 241.2], [520.3, 282.4], [534.1, 311.4], [541.8, 327.5], [525.7, 333.4], [501.3, 342.4], [476.9, 352.4], [452.9, 362.4], [428.3, 373.7], [403.1, 385.2], [379, 396.1]];
+const FR = buildFR(RPXW, [521.5, 241.2]), FR0 = buildFR(RPX, TURN_PX);
 function frame(m) { if (m <= 0) { const f = FR[0]; return [f[0] + f[2] * m * U, f[1] + f[3] * m * U, f[2], f[3]]; } if (m >= L) { const f = FR[440]; return [f[0] + f[2] * (m - L) * U, f[1] + f[3] * (m - L) * U, f[2], f[3]]; }
   const j = m * 2, i = Math.floor(j), t = j - i, A = FR[i], B = FR[Math.min(440, i + 1)]; return [A[0] + (B[0] - A[0]) * t, A[1] + (B[1] - A[1]) * t, A[2] + (B[2] - A[2]) * t, A[3] + (B[3] - A[3]) * t]; }
 let XG = 1; // how much wider than real the footpath is drawn at this zoom
 const exOf = k => clamp(k / .45, 1, 3);
-const plan = (m, a) => { const [x, y, tx, ty] = frame(m); return [x - ty * (a - AX) * U * XG, y + tx * (a - AX) * U * XG]; };
+const plan = (m, a) => { const [x, y, tx, ty] = frame(m), o = SIDE * (a - AX) * U * XG; return [x - ty * o, y + tx * o]; };
+// the side of the road that was not walked, along the traced route line
+const frame0 = m => { const j = clamp(m, 0, L) * 2, i = Math.floor(j), t = j - i, A = FR0[i], B = FR0[Math.min(440, i + 1)]; return [A[0] + (B[0] - A[0]) * t, A[1] + (B[1] - A[1]) * t, A[2], A[3]]; };
+const P0 = (m, t) => { const [x, y, tx, ty] = frame0(m), o = t * U * XG, q = [x - ty * o, y + tx * o]; return state.d3 ? isoXY(q[0], q[1]) : q; };
 // a point beside the footpath, px screen pixels out from its building edge (bands keep their size on screen)
-const PB = (m, px) => { const [x, y, tx, ty] = frame(m), o = (0 - AX) * U * XG - px * K, q = [x - ty * o, y + tx * o]; return state.d3 ? isoXY(q[0], q[1]) : q; };
+const PB = (m, px) => { const [x, y, tx, ty] = frame(m), o = SIDE * ((0 - AX) * U * XG - px * K), q = [x - ty * o, y + tx * o]; return state.d3 ? isoXY(q[0], q[1]) : q; };
 const isoXY = (x, y, z = 0) => [(x - y) * .866, (x + y) * .5 - z * U];
 const iso = (m, a, z = 0) => { const [x, y] = plan(m, a); return isoXY(x, y, z); };
 const P = (m, a, z = 0) => state.d3 ? iso(m, a, z) : plan(m, a);
@@ -598,6 +606,9 @@ function draw() {
   el('path', { d: CTX.bbeige, fill: T.b2, stroke: T.bEdge, 'stroke-width': .8, ...ns }, cg);
   el('path', { d: CTX.road, fill: T.road, stroke: T.roadEdge, 'stroke-width': 1, ...ns, 'fill-rule': 'evenodd' }, cg);
   el('path', { d: CTX.hwy, fill: T.hwy, stroke: T.hwyEdge, 'stroke-width': 1, ...ns, 'fill-rule': 'evenodd' }, cg);
+  // the other side of the road: not walked yet
+  { const ms = sampleM(0, L, 2), q = [...ms.map(m => P0(m, -2)), ...ms.slice().reverse().map(m => P0(m, 1))]; poly(q, 'url(#hatch)', { stroke: dark ? '#7D88A6' : '#80868B', 'stroke-width': fs(1.2), 'stroke-dasharray': `${fs(4)} ${fs(3)}`, opacity: .9 }, g);
+    if (K < 4) [50, 195].forEach(m => { const [x, y] = P0(m, -.5), [x2, y2] = P0(m + 2, -.5); let ang = Math.atan2(y2 - y, x2 - x) * 180 / Math.PI; if (ang > 90) ang -= 180; if (ang < -90) ang += 180; tx('OTHER SIDE · NOT WALKED YET', x, y, { 'font-family': 'Roboto, sans-serif', 'font-size': fs(10.5), 'font-weight': 500, 'letter-spacing': fs(.6), fill: dark ? '#C3CBE0' : '#5F6368', stroke: dark ? '#070B16' : '#fff', 'stroke-width': fs(3), 'paint-order': 'stroke', 'text-anchor': 'middle', dy: fs(3.5), transform: `rotate(${ang.toFixed(1)} ${x} ${y})` }, g); }); }
   // pale ground under the pedestrian layer, so the car world recedes behind it
   const bandW = (Lr.photos ? (phone() ? 54 : 78) : 0) + (Lr.sound ? 26 : 0) + (Lr.view ? 14 : 0);
   if (bandW) { const ms = sampleM(-2, L + 2, 2), q = [...ms.map(m => PB(m, -4)), ...ms.slice().reverse().map(m => PB(m, bandW + 6))]; poly(q, dark ? '#0B1222' : '#FFFFFF', { opacity: .82 }, g); }
@@ -737,7 +748,7 @@ function fly(to, ms = 650) { const id = ++flyId, from = state.vb.slice(), t0 = p
   const step = now => { if (id !== flyId) return; const t = Math.min(1, (now - t0) / ms); setVB(from.map((v, j) => v + (to[j] - v) * e(t))); if (t < 1) requestAnimationFrame(step); else setVB(to, true); }; requestAnimationFrame(step); }
 const toWorld = (cx, cy) => { const p = svg.createSVGPoint(); p.x = cx; p.y = cy; const q = p.matrixTransform(svg.getScreenCTM().inverse()); let x = q.x, y = q.y; if (state.d3) { const u = q.x / .866, v = q.y / .5; x = (u + v) / 2; y = (v - u) / 2; }
   let bj = 0, bd = 1e18; for (let j = 0; j <= 440; j++) { const f = FR[j], e = (f[0] - x) ** 2 + (f[1] - y) ** 2; if (e < bd) { bd = e; bj = j; } }
-  const f = FR[bj], dx = x - f[0], dy = y - f[1]; let m = bj / 2; if (bj === 0 || bj === 440) m += (dx * f[2] + dy * f[3]) / U; return [m, AX + (-dx * f[3] + dy * f[2]) / (U * XG)]; };
+  const f = FR[bj], dx = x - f[0], dy = y - f[1]; let m = bj / 2; if (bj === 0 || bj === 440) m += (dx * f[2] + dy * f[3]) / U; return [m, AX + SIDE * (-dx * f[3] + dy * f[2]) / (U * XG)]; };
 function zoomAt(k, cx, cy) { flyId++; const vb = state.vb, f = ctxBox(), w = Math.max(20 * U, Math.min(f[2] * 1.15, vb[2] * k)), h = vb[3] * w / vb[2]; const p = svg.createSVGPoint(); p.x = cx; p.y = cy; const q = p.matrixTransform(svg.getScreenCTM().inverse());
   setVB([q.x - (q.x - vb[0]) * w / vb[2], q.y - (q.y - vb[1]) * h / vb[3], w, h]); }
 const mapCentre = () => { const v = visArea(), r = svg.getBoundingClientRect(); return [r.left + (v.l + v.r) / 2, r.top + (v.t + v.b) / 2]; };
@@ -927,7 +938,7 @@ function renderChips() { $('chips').innerHTML = Object.entries(MODES).map(([k, m
 $('chips').addEventListener('click', e => { const b = e.target.closest('[data-m]'); if (!b) return; setMode(b.dataset.m); });
 function setMode(k) { state.mode = k; state.base = MODES[k].B; state.layers = { ...ALWAYS, ...MODES[k].L }; renderChips(); renderLayers(); if (k === 'plan') { setView('plan', { snap: 'half' }); return; } if (state.view === 'plan') setView('home', { keepScroll: true }); else if (state.view === 'home') setView('home', { keepScroll: true }); else { if (state.view === 'place') setView('place', { keepScroll: true }); draw(); } }
 const sw = ([c, l, b]) => `<div><i style="background:${c === 'url' ? 'repeating-linear-gradient(45deg,var(--paper) 0 3px,var(--hair) 3px 5px)' : c === 'dash' ? 'repeating-linear-gradient(90deg,#1E2A45 0 4px,#fff 4px 7px)' : c};${b ? 'box-shadow:inset 0 0 0 1px var(--hair)' : ''}"></i>${esc(l)}</div>`;
-function detailLeg() { const Lr = state.layers, o = [];
+function detailLeg() { const Lr = state.layers, o = [['url', 'other side of the road · not walked yet']];
   if (Lr.prox) o.push(['#1A73E8', 'one person, about 0.75 m, side by side'], ['#D93025', '✕ no one fits: step into the road']);
   if (Lr.view) o.push(['#3C4043', 'blocked ahead · darker = on more walks']);
   if (Lr.sound) o.push(['#D93025', 'horns · thicker = more heard'], [C.mus, 'swerves']);
